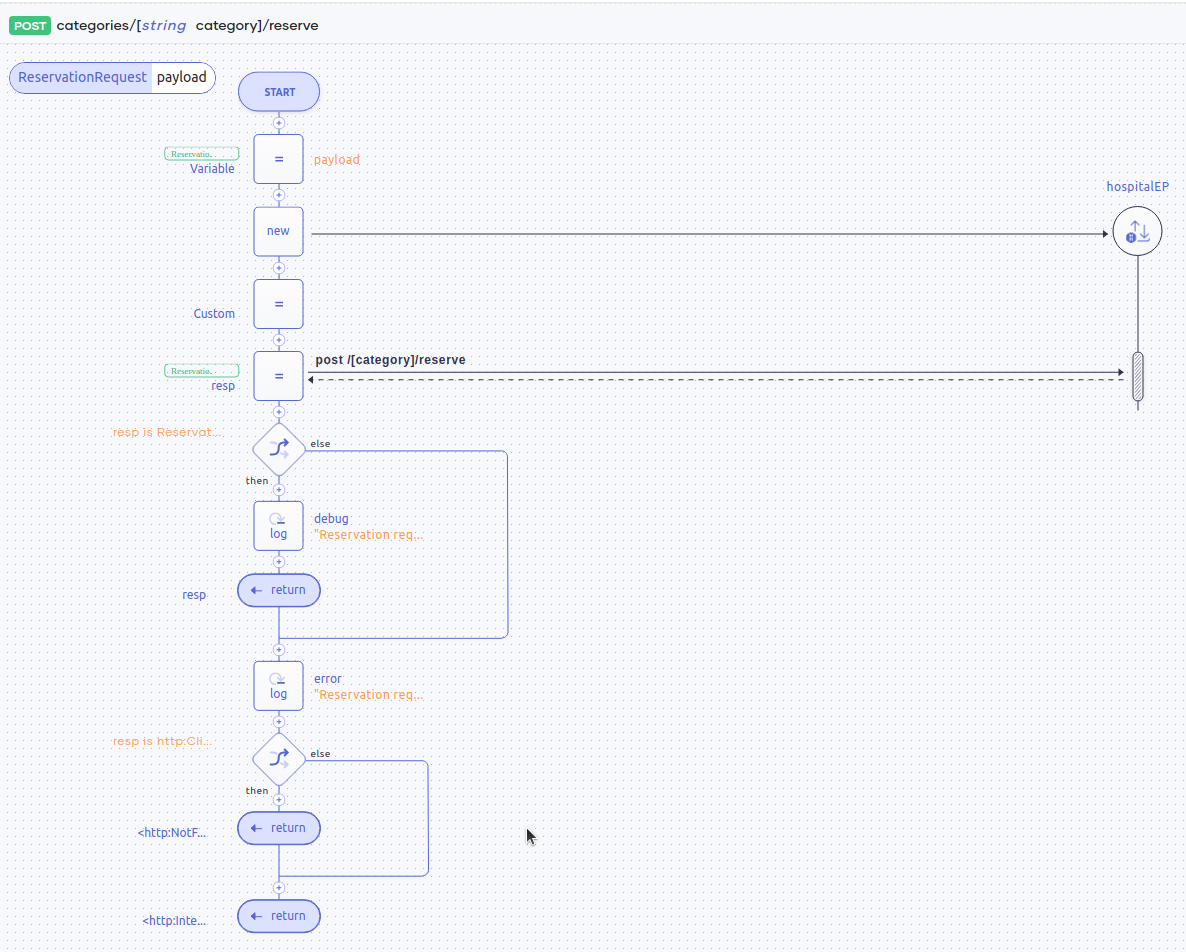
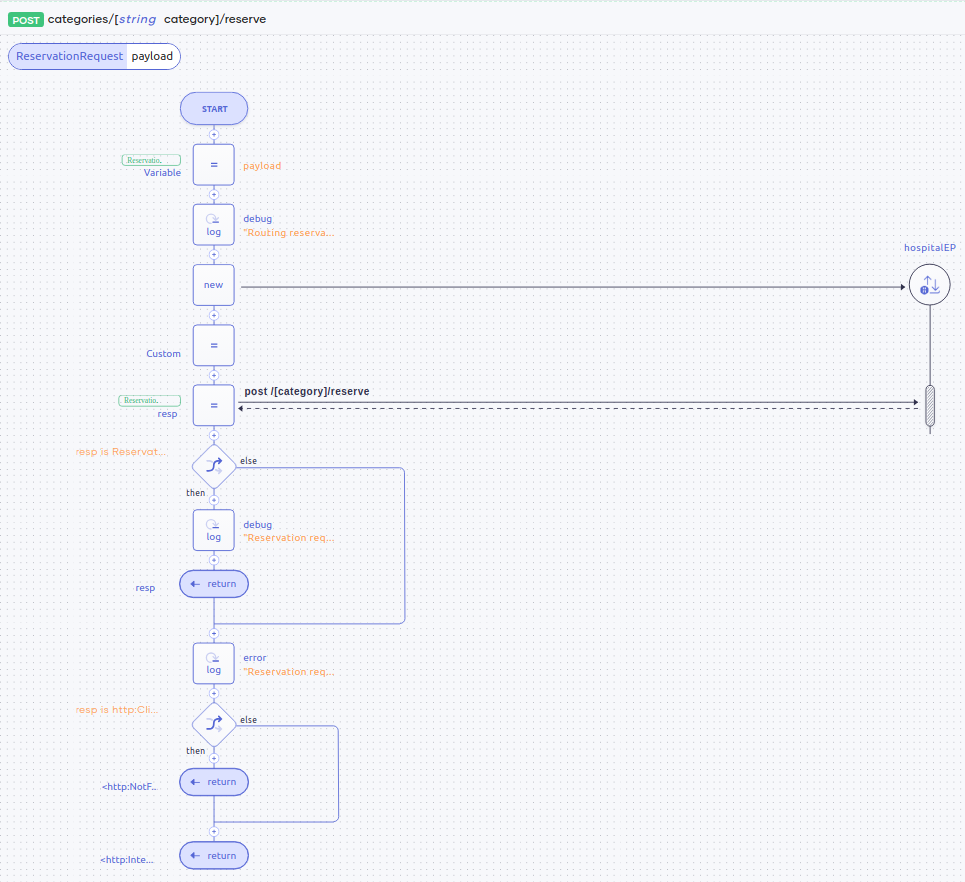
Address review suggestions

diff --git a/content-based-message-routing/README.md b/content-based-message-routing/README.md
@@ -2,9 +2,9 @@
 
 ## Overview
 
-In this tutorial, you will develop an appointment reservation service for several hospitals. Requests are routed to the relevant hospital based on the content of the request payload.
+In this tutorial, you will develop a service via which you can reserve appointments at several hospitals. The requests are routed to the relevant hospital based on the content of the request payload.
 
-To implement this use case, you will develop a REST service with a single resource using Visual Studio Code with the Ballerina Swan Lake extension. The resource will receive the user request, select the hospital service based on `hospital_id`, send a request to the hospital service, and respond with the correct reservation details.
+To implement this use case, you will develop a REST service with a single resource using Visual Studio Code with the Ballerina Swan Lake extension. The resource will receive the user request, select the hospital endpoint based on the hospital ID, send a request to make a reservation at the hospital service, and respond with the correct reservation details.
 
 The flow is as follows:
 
@@ -23,6 +23,7 @@ The flow is as follows:
     },
     "doctor": "thomas collins",
     "hospital": "grand oak community hospital",
+    "hospital_id": "grandoak",
     "appointment_date": "2017-04-02"
 }
 ```
@@ -33,7 +34,7 @@ The flow is as follows:
 - clemency -> `http://localhost:9090/clemency/categories`
 - pinevalley -> `http://localhost:9090/pinevalley/categories`
 
-3. Send a request to the selected hospital service and retrieve the response which will be similar to the following.
+3. Send a request to the selected hospital endpoint and retrieve the response which will be similar to the following.
 
 ```json
 {
@@ -192,8 +193,8 @@ service /healthcare on new http:Listener(port) {
     resource function post categories/[string category]/reserve(ReservationRequest payload)
             returns ReservationResponse|http:NotFound|http:BadRequest|http:InternalServerError {
         ReservationRequest {hospital_id, patient, ...reservationRequest} = payload;
-        
-        log:printDebug("Routing to a hospital",
+
+        log:printDebug("Routing reservation request",
                         hospital_id = hospital_id,
                         patient = patient.name,
                         doctor = reservationRequest.doctor);
@@ -309,7 +310,7 @@ import ballerina/log;
 
 configurable int port = 8290;
 
-final http:Client grandOakEP = check initializeHttpClient("http://localhost:9090/grandoaks/categories");
+final http:Client grandOakEP = check initializeHttpClient("http://localhost:9090/grandoak/categories");
 final http:Client clemencyEP = check initializeHttpClient("http://localhost:9090/clemency/categories");
 final http:Client pineValleyEP = check initializeHttpClient("http://localhost:9090/pinevalley/categories");
 
@@ -318,7 +319,7 @@ function initializeHttpClient(string url) returns http:Client|error => new (url)
 enum HospitalId {
     GRAND_OAK = "grandoak",
     CLEMENCY = "clemency",
-    PINEVALLEY = "pinevalley"
+    PINE_VALLEY = "pinevalley"
 };
 
 type Patient record {|
@@ -333,7 +334,7 @@ type Patient record {|
 type ReservationRequest record {|
     Patient patient;
     string doctor;
-    string hospital_id;
+    HospitalId hospital_id;
     string hospital;
     string appointment_date;
 |};
@@ -361,7 +362,7 @@ service /healthcare on new http:Listener(port) {
             returns ReservationResponse|http:NotFound|http:BadRequest|http:InternalServerError {
         ReservationRequest {hospital_id, patient, ...reservationRequest} = payload;
 
-        log:printDebug("Routing to a hospital",
+        log:printDebug("Routing reservation request",
                         hospital_id = hospital_id,
                         patient = patient.name,
                         doctor = reservationRequest.doctor);
